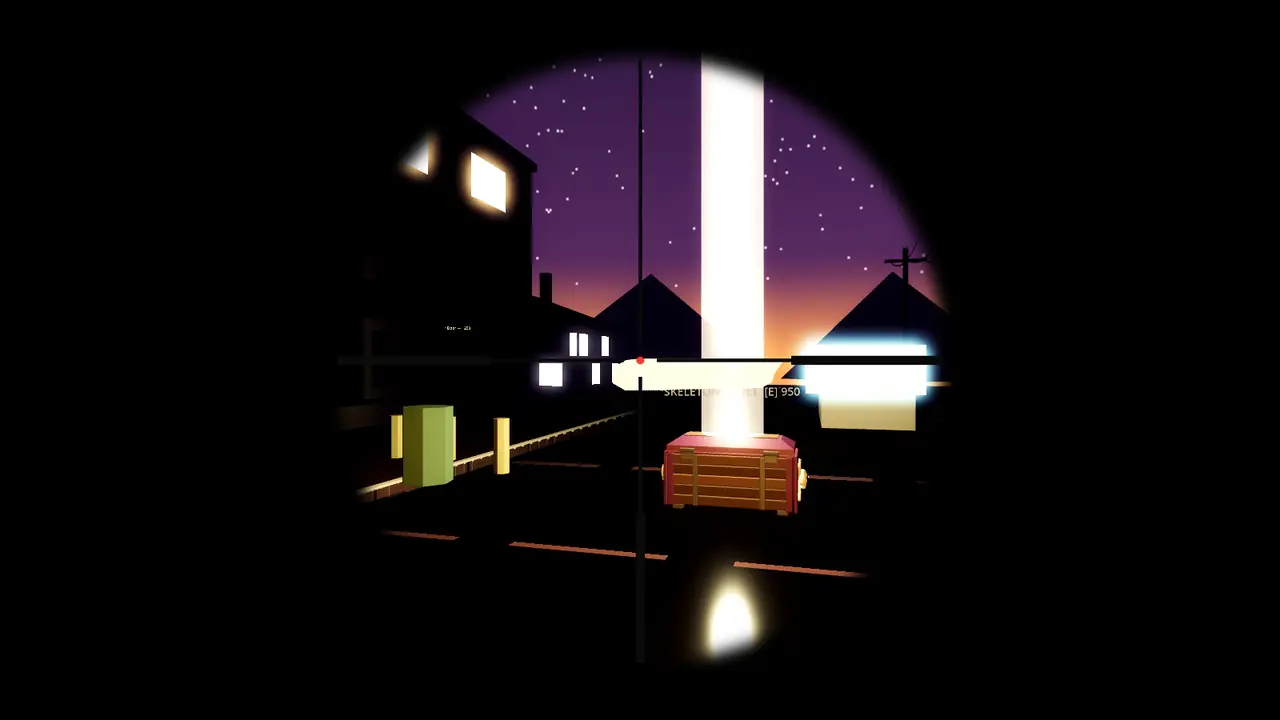
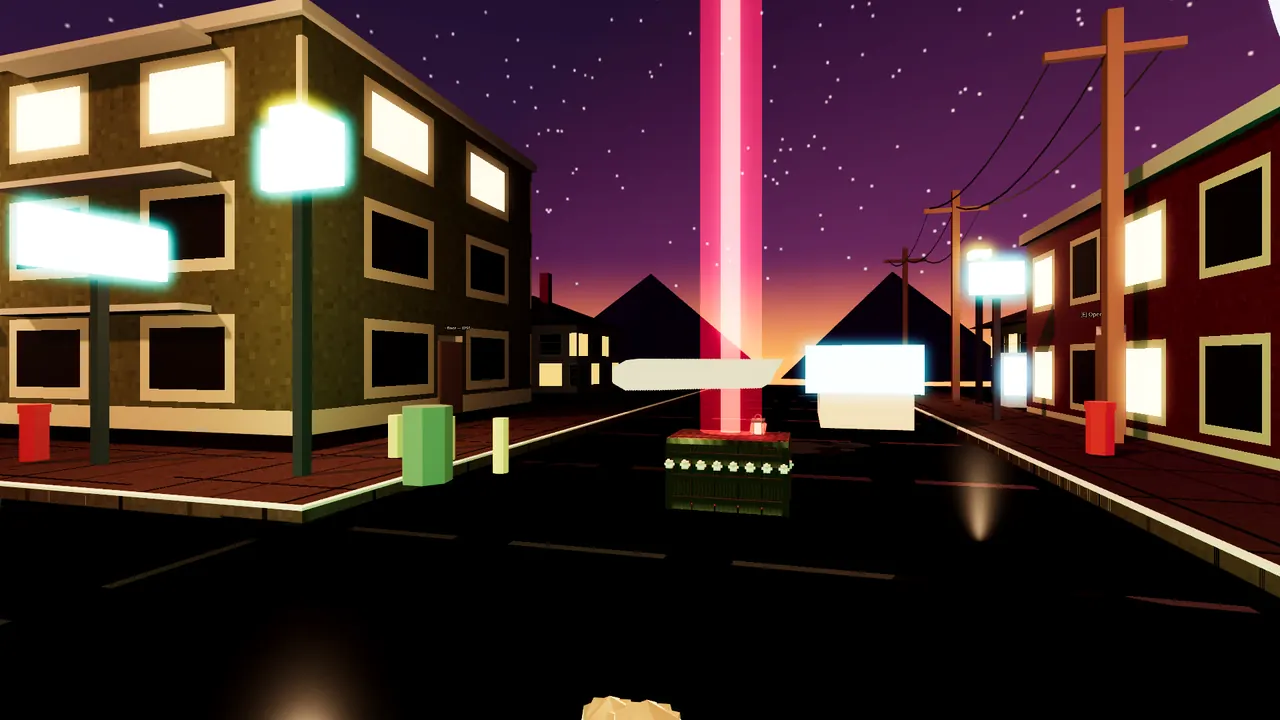
SESH: expanded sesh.html (Town/Woods/Survival galleries with current Nov 1 build shots, EE in progress, dev log), blog dev-log post, Projects card links; css v=43

diff --git a/sesh.html b/sesh.html
@@ -1,0 +1,229 @@
+<!DOCTYPE html>
+<html lang="en">
+<head>
+  <meta charset="UTF-8">
+  <meta name="viewport" content="width=device-width, initial-scale=1.0">
+  <meta name="description" content="SESH, a Godot desktop game by James Fischer: two environments, a round-based Survival mode, an Easter egg in progress and a dev log.">
+  <meta name="theme-color" content="#0b0d10">
+  <meta property="og:title" content="James Fischer | Software & IT Operations">
+  <meta property="og:description" content="Software, infrastructure, automation, and business-minded problem solving.">
+  <meta property="og:type" content="website">
+  <meta property="og:image" content="james-fischer.jpg">
+  <title>SESH | James Fischer</title>
+  <link rel="stylesheet" href="portfolio-v12.css?v=43">
+  <script defer src="script.js?v=34"></script>
+  <link rel="icon" href="favicon.svg" type="image/svg+xml">
+</head>
+<body>
+  <a class="skip-link" href="#main">Skip to content</a>
+
+  <header class="site-header" id="top">
+    <a class="brand" href="index.html" aria-label="James Fischer home">JF<span>.</span></a>
+    <button class="menu-toggle" type="button" aria-expanded="false" aria-controls="site-nav" aria-label="Menu"><span class="menu-icon" aria-hidden="true"></span></button>
+    <nav class="site-nav" id="site-nav" aria-label="Primary navigation">
+      <a href="index.html">Home</a>
+      <a href="Projects.html">Projects</a>
+      <a href="Graphic-Art.html">Graphic Art</a>
+      <a href="Experience.html">Experience</a>
+      <a href="Education.html">Education</a>
+      <a href="About.html">About</a>
+      <a href="Blog.html">Blog</a>
+      <a href="Contact.html">Contact</a>
+      <a href="James-Fischer-Resume.pdf" target="_blank" rel="noopener">Resume</a>
+    </nav>
+  </header>
+
+  <main id="main">
+    <section class="section section-intro reveal" id="overview">
+      <div class="section-number">01</div>
+      <div class="section-heading">
+        <p class="eyebrow">SESH · Game dev · 2026</p>
+        <h2>A night town,<br>a foggy woods<br>and skeletons.</h2>
+        <p class="section-lede">SESH is a Windows desktop game I am building in Godot 4. A launcher hub opens two environments, Town and Woods. Explore lets you walk each map. Survival is a round-based mode against skeletons. Maps are modeled in Blender and loaded at runtime. <a class="text-link" href="#environments">Environments</a> <a class="text-link" href="#survival">Survival</a> <a class="text-link" href="#devlog">Dev log</a> <a class="text-link" href="Blog.html#sesh-devlog-nov-1">Blog post</a></p>
+      </div>
+    </section>
+    <section class="project-grid" aria-label="SESH hero">
+      <article class="project-card reveal">
+        <div class="project-meta"><span>SESH</span><span>Town · in-game</span></div>
+        <figure class="project-shot"><img src="media/sesh/hero-ingame.webp" alt="SESH Town at sunset in-game, with the bolt-action rifle and the Skeleton Vault beam" width="1280" height="720" decoding="async"></figure>
+        <div class="project-content"><p class="project-kicker">In-game</p><h3>Survival in Town</h3><p>The lit Town map in a Survival run, with the round, points and weapon HUD.</p></div>
+      </article>
+    </section>
+    <section class="section section-intro reveal" id="environments">
+      <div class="section-number">02</div>
+      <div class="section-heading">
+        <p class="eyebrow">Environments</p>
+        <h2>Two maps,<br>built to walk through.</h2>
+        <p class="section-lede">The galleries below mix in-game captures with Blender renders of the newest map versions. Each image is labeled.</p>
+      </div>
+    </section>
+    <div id="town"></div>
+    <section class="project-grid" aria-label="Town gallery">
+      <article class="project-card reveal">
+        <div class="project-meta"><span>SESH</span><span>Town · Blender render, Nov 1</span></div>
+        <figure class="project-shot"><img src="media/sesh/town-window.webp" alt="Lit storefront windows in SESH Town at night, Blender render" width="1280" height="720" loading="lazy" decoding="async"></figure>
+        <div class="project-content"><p class="project-kicker">Town · Blender render</p><h3>Storefronts</h3><p>Lit shop windows with skeleton figures inside, from the current Town build.</p></div>
+      </article>
+      <article class="project-card reveal">
+        <div class="project-meta"><span>SESH</span><span>Town · Blender render, Nov 1</span></div>
+        <figure class="project-shot"><img src="media/sesh/town-bar.webp" alt="Neon bar interior in SESH Town with skeletons at the counter, Blender render" width="1280" height="720" loading="lazy" decoding="async"></figure>
+        <div class="project-content"><p class="project-kicker">Town · Blender render</p><h3>Bar interior</h3><p>The bar, one of the buildings you can walk into.</p></div>
+      </article>
+      <article class="project-card reveal">
+        <div class="project-meta"><span>SESH</span><span>Town · Blender render, Nov 1</span></div>
+        <figure class="project-shot"><img src="media/sesh/town-office.webp" alt="Green-lit office interior in SESH Town, Blender render" width="1280" height="720" loading="lazy" decoding="async"></figure>
+        <div class="project-content"><p class="project-kicker">Town · Blender render</p><h3>Office</h3><p>The office interior, lit in green.</p></div>
+      </article>
+      <article class="project-card reveal">
+        <div class="project-meta"><span>SESH</span><span>Town · Blender render, Nov 1</span></div>
+        <figure class="project-shot"><img src="media/sesh/town-house.webp" alt="Warm-lit house interior in SESH Town, Blender render" width="1280" height="720" loading="lazy" decoding="async"></figure>
+        <div class="project-content"><p class="project-kicker">Town · Blender render</p><h3>House</h3><p>A house interior on the Town block.</p></div>
+      </article>
+    </section>
+    <div id="woods"></div>
+    <section class="project-grid" aria-label="Woods gallery">
+      <article class="project-card reveal">
+        <div class="project-meta"><span>SESH</span><span>Woods · v031 render, Nov 1</span></div>
+        <figure class="project-shot"><img src="media/sesh/woods-clearing.webp" alt="Foggy clearing in SESH Woods, Blender render" width="640" height="360" loading="lazy" decoding="async"></figure>
+        <div class="project-content"><p class="project-kicker">Woods · Blender render</p><h3>Clearing</h3><p>Cold fog over the pines, inspired by Silent Hill 2.</p></div>
+      </article>
+      <article class="project-card reveal">
+        <div class="project-meta"><span>SESH</span><span>Woods · v031 render, Nov 1</span></div>
+        <figure class="project-shot"><img src="media/sesh/woods-trail.webp" alt="Foggy trail in SESH Woods, Blender render" width="640" height="360" loading="lazy" decoding="async"></figure>
+        <div class="project-content"><p class="project-kicker">Woods · Blender render</p><h3>Trail</h3><p>The trail into the trees.</p></div>
+      </article>
+      <article class="project-card reveal">
+        <div class="project-meta"><span>SESH</span><span>Woods · v031 render, Nov 1</span></div>
+        <figure class="project-shot"><img src="media/sesh/woods-deep.webp" alt="Deep fog in SESH Woods, Blender render" width="640" height="360" loading="lazy" decoding="async"></figure>
+        <div class="project-content"><p class="project-kicker">Woods · Blender render</p><h3>Deep woods</h3><p>Further in, where the fog closes up.</p></div>
+      </article>
+      <article class="project-card reveal">
+        <div class="project-meta"><span>SESH</span><span>Woods · in-game, Nov 1</span></div>
+        <figure class="project-shot"><img src="media/sesh/woods-thirdperson.webp" alt="Third-person view of the skeleton player by a skull sign in the foggy SESH Woods, in-game" width="1280" height="720" loading="lazy" decoding="async"></figure>
+        <div class="project-content"><p class="project-kicker">Woods · In-game</p><h3>Third person in the Woods</h3><p>The Woods in-game, with the third-person camera on the skeleton player.</p></div>
+      </article>
+    </section>
+    <section class="section section-intro reveal" id="survival">
+      <div class="section-number">03</div>
+      <div class="section-heading">
+        <p class="eyebrow">Survival</p>
+        <h2>Round-based,<br>against skeletons.</h2>
+        <p class="section-lede">Playable on both maps. All shots are from the current build, in-game.</p>
+      </div>
+    </section>
+    <section class="project-grid" aria-label="Survival features">
+      <article class="project-card reveal">
+        <div class="project-meta"><span>SESH</span><span>In-game, Nov 1</span></div>
+        <figure class="project-shot"><img src="media/sesh/vault-open.webp" alt="Skeleton Vault opening with a red beam on a Town street at sunset, in-game" width="1280" height="720" loading="lazy" decoding="async"></figure>
+        <div class="project-content"><p class="project-kicker">Feature</p><h3>Skeleton Vault</h3><p>Spend points for a random weapon. The Vault spins, then relocates with a beacon so you can find it again.</p></div>
+      </article>
+      <article class="project-card reveal">
+        <div class="project-meta"><span>SESH</span><span>In-game, Nov 1</span></div>
+        <figure class="project-shot"><img src="media/sesh/emerge-spawns.webp" alt="Skeleton spawn point on a Town street at sunset, in-game" width="1280" height="720" loading="lazy" decoding="async"></figure>
+        <div class="project-content"><p class="project-kicker">Feature</p><h3>Emerge spawns</h3><p>Skeletons climb out of manholes, sewer grates and ground cracks in Town, and coffins, dirt mounds and storm drains in the Woods.</p></div>
+      </article>
+      <article class="project-card reveal">
+        <div class="project-meta"><span>SESH</span><span>In-game, Nov 1</span></div>
+        <figure class="project-shot"><img src="media/sesh/perk-npc.webp" alt="Perk stand by a Town storefront, in-game" width="1280" height="720" loading="lazy" decoding="async"></figure>
+        <div class="project-content"><p class="project-kicker">Feature</p><h3>Perk stands</h3><p>Perks are sold by skeleton NPCs, with an icon row in the HUD.</p></div>
+      </article>
+      <article class="project-card reveal">
+        <div class="project-meta"><span>SESH</span><span>In-game, Nov 1</span></div>
+        <figure class="project-shot"><img src="media/sesh/ads-scope.webp" alt="Bolt-action rifle on a Town street at sunset with the Vault beam behind, in-game" width="1280" height="720" loading="lazy" decoding="async"></figure>
+        <div class="project-content"><p class="project-kicker">Feature</p><h3>Bolt-action rifle</h3><p>Guns aim down sights, with a full scope view on the bolt-action rifle.</p></div>
+      </article>
+    </section>
+    <section class="section section-intro reveal" id="easter-egg">
+      <div class="section-number">04</div>
+      <div class="section-heading">
+        <p class="eyebrow">In progress</p>
+        <h2>Easter egg,<br>designed, not built.</h2>
+      </div>
+    </section>
+    <section class="project-grid" aria-label="Easter egg in progress">
+      <article class="project-card reveal">
+        <div class="project-meta"><span>SESH</span><span>In progress</span></div>
+        
+        <div class="project-content"><h3>Town Easter egg</h3><p>A witch in the plaza gives clues. A ghost at the bar gives you a potion, the witch has you build her ritual items, and her ritual summons a purple skeleton with his car, which flies you out of Town into a new Woods map.</p></div>
+      </article>
+      <article class="project-card reveal">
+        <div class="project-meta"><span>SESH</span><span>In progress</span></div>
+        
+        <div class="project-content"><h3>Post-Easter-egg Woods</h3><p>Stronger perks, including Second Wind and Bone Cache moving here, a Pack-a-Punch machine called the Soup Forge, and a mystery box at the entrance that never moves.</p></div>
+      </article>
+      <article class="project-card reveal">
+        <div class="project-meta"><span>SESH</span><span>In progress</span></div>
+        
+        <div class="project-content"><h3>Town changes</h3><p>Town drops to three perks: Tough Brew, Quick Brew and Rapid Brew, which will only raise fire rate. Starting movement gets much slower and more realistic, ready for playtesting.</p></div>
+      </article>
+    </section>
+    <section class="section section-intro reveal" id="devlog">
+      <div class="section-number">05</div>
+      <div class="section-heading">
+        <p class="eyebrow">Dev log</p>
+        <h2>November 1,<br>2026.</h2>
+        <p class="section-lede">What I worked on today. <a class="text-link" href="Blog.html#sesh-devlog-nov-1">Read the blog post</a></p>
+      </div>
+    </section>
+    <section class="project-grid" aria-label="Dev log, November 1">
+      <article class="project-card reveal">
+        <div class="project-meta"><span>SESH</span><span>Nov 1 · Early morning</span></div>
+        
+        <div class="project-content"><h3>Town and the launcher</h3><p>Got Town running as a playable map. I started with a browser build, then switched to a native Godot 4 desktop player that loads the Blender export at runtime with collision, fog and glow. Added a launcher hub that lists each environment and its versions.</p></div>
+      </article>
+      <article class="project-card reveal">
+        <div class="project-meta"><span>SESH</span><span>Nov 1 · Early morning</span></div>
+        
+        <div class="project-content"><h3>The Woods</h3><p>Added a dark, foggy Woods inspired by Silent Hill 2, with a post shader for grain, vignette and scanlines and a flashlight on F. Grass, foliage and fog no longer block the player.</p></div>
+      </article>
+      <article class="project-card reveal">
+        <div class="project-meta"><span>SESH</span><span>Nov 1 · Morning</span></div>
+        
+        <div class="project-content"><h3>Survival mode</h3><p>Built Survival on both maps: rounds, points, a mystery box, guns, perks, drops and game over. Reworked how skeletons chase you so they stop getting stuck, and added procedural sound effects and pause.</p></div>
+      </article>
+      <article class="project-card reveal">
+        <div class="project-meta"><span>SESH</span><span>Nov 1 · Afternoon</span></div>
+        
+        <div class="project-content"><h3>Weapons</h3><p>Gave each weapon its own reload animation, added melee weapons, aim down sights and a scope on the bolt-action rifle, and a third-person camera.</p></div>
+      </article>
+      <article class="project-card reveal">
+        <div class="project-meta"><span>SESH</span><span>Nov 1 · Afternoon</span></div>
+        
+        <div class="project-content"><h3>Perks, houses and spawns</h3><p>Added perk stands run by skeleton NPCs, double jump and a drop timer. Made the houses enterable with doors that open and close. Skeletons now climb out of manholes, grates, coffins and the ground.</p></div>
+      </article>
+      <article class="project-card reveal">
+        <div class="project-meta"><span>SESH</span><span>Nov 1 · Evening</span></div>
+        
+        <div class="project-content"><h3>Polish pass</h3><p>Lit Town better and added lanterns, a signpost and mist to the Woods. Grounded the Woods Skeleton Vault, added power-up drops and finished the Vault's spin.</p></div>
+      </article>
+      <article class="project-card reveal">
+        <div class="project-meta"><span>SESH</span><span>Nov 1 · Evening</span></div>
+        
+        <div class="project-content"><h3>Design, in progress</h3><p>Wrote up the Town Easter egg, the post-Easter-egg Woods perks and the Soup Forge, a three-perk Town and slower starting movement. None of it is built yet.</p></div>
+      </article>
+    </section>
+    <section class="section section-intro reveal" id="stack">
+      <div class="section-number">06</div>
+      <div class="section-heading">
+        <p class="eyebrow">Tech stack</p>
+        <h2>How it is<br>built.</h2>
+      </div>
+    </section>
+    <section class="project-grid" aria-label="Tech stack">
+      <article class="project-card reveal"><div class="project-content"><h3>Tools</h3><ul class="tags"><li>Godot 4</li><li>GDScript</li><li>Blender</li><li>GLB runtime loading</li><li>Custom post shaders</li><li>Windows desktop</li></ul></div></article>
+    </section>
+    </section>
+  </main>
+
+  <footer>
+    <p>Designed & built by James Fischer.</p>
+    <nav class="footer-links" aria-label="Profiles">
+      <a href="https://github.com/JamesLFischer" target="_blank" rel="noopener">GitHub</a>
+      <a href="https://www.linkedin.com/in/jamesloughranfischer/" target="_blank" rel="noopener noreferrer">LinkedIn</a>
+      <a href="James-Fischer-Resume.pdf" target="_blank" rel="noopener">Resume</a>
+      <a href="https://x.com/JamesFischerOps" target="_blank" rel="noopener noreferrer">X</a>
+    </nav>
+    <p>Seattle, WA · <span id="year">2026</span></p>
+  </footer>
+</body>
+</html>

diff --git a/Blog.html b/Blog.html
@@ -10,7 +10,7 @@
   <meta property="og:type" content="website">
   <meta property="og:image" content="james-fischer.jpg">
   <title>Blog | James Fischer</title>
-  <link rel="stylesheet" href="portfolio-v12.css?v=41">
+  <link rel="stylesheet" href="portfolio-v12.css?v=43">
   <script defer src="script.js?v=34"></script>
   <link rel="icon" href="favicon.svg" type="image/svg+xml">
 </head>
@@ -47,8 +47,21 @@
             2. End the post with the .project-backlink block below, pointing to Projects.html#<project-id>.
             3. Add the post to that card's "Related posts" list on Projects.html.
         -->
-        <article id="band-for-band-announce" data-project="band-for-band">
+        <article id="sesh-devlog-nov-1" data-project="sesh-game">
           <span class="cap-index">01</span>
+          <h3>Dev log: building SESH in a day</h3>
+          <p><em>November 1, 2026</em></p>
+          <img src="media/sesh/hero-ingame.webp" alt="SESH Town at sunset in-game, with the bolt-action rifle and the Skeleton Vault beam" width="1280" height="720" loading="lazy" decoding="async" style="width:100%;height:auto;border-radius:8px">
+          <p>SESH is a Windows desktop game I'm making in Godot 4. Today I got two maps playable, Town and a foggy Silent Hill-style Woods, both modeled in Blender and loaded at runtime from a launcher hub.</p>
+          <p>Most of the day went into Survival, a round-based mode against skeletons: points, a Skeleton Vault for random weapons, perk stands run by skeleton NPCs, drops, per-weapon reloads, melee, aim down sights and a third-person camera. Skeletons climb out of manholes, coffins and the ground, and the houses now have doors you can close.</p>
+          <p>Next up is an Easter egg in Town, a witch, a ghost and a ritual that ends with a car flying you into a new Woods map. It's designed but not built yet.</p>
+          <div class="project-backlink">
+            <span>Part of the <strong>SESH</strong> project</span>
+            <a class="backlink-button" href="sesh.html">View the project →</a>
+          </div>
+        </article>
+        <article id="band-for-band-announce" data-project="band-for-band">
+          <span class="cap-index">02</span>
           <h3>Coming soon: Band for Band</h3>
           <p><em>October 2026</em></p>
           <p>Band for Band is a Steam game in progress. The hook is that players link their bank account. It's in early development and not released, with 3D character work underway and voice prototypes in ElevenLabs. More to share later.</p>

diff --git a/Projects.html b/Projects.html
@@ -10,7 +10,7 @@
   <meta property="og:type" content="website">
   <meta property="og:image" content="james-fischer.jpg">
   <title>Projects | James Fischer</title>
-  <link rel="stylesheet" href="portfolio-v12.css?v=41">
+  <link rel="stylesheet" href="portfolio-v12.css?v=43">
   <script defer src="script.js?v=34"></script>
   <link rel="icon" href="favicon.svg" type="image/svg+xml">
 </head>
@@ -99,13 +99,22 @@ status: reasoning under uncertainty_</code></pre>
           <span>2026</span>
         </div>
         <figure class="project-shot">
-          <img src="media/sesh/survival-rounds.webp" alt="SESH Survival mode in the Town map, round 2" width="1280" height="720" loading="lazy" decoding="async">
+          <img src="media/sesh/hero-ingame.webp" alt="SESH Town at sunset in-game, with the bolt-action rifle and the Skeleton Vault beam" width="1280" height="720" loading="lazy" decoding="async">
         </figure>
         <div class="project-content">
           <p class="project-kicker">Godot 4 · GDScript · Blender</p>
           <h3>SESH</h3>
           <p>A Windows desktop game built in Godot. A launcher hub opens two maps, Town and Woods, each with two modes. Explore lets you walk the map. Survival is a round-based mode against skeletons, with points, a mystery box, a Skeleton Vault, perk stands and a set of guns and melee weapons. Maps are modeled in Blender and loaded at runtime.</p>
           <ul class="tags"><li>Godot 4</li><li>GDScript</li><li>Blender</li><li>Game design</li></ul>
+          <a class="text-link" href="sesh.html">View the full project</a>
+          <a class="text-link" href="sesh.html#environments">See the environments</a>
+          <a class="text-link" href="sesh.html#devlog">Read the dev log</a>
+          <div class="related-posts">
+            <p class="project-kicker">Related posts</p>
+            <ul>
+              <li><a class="text-link" href="Blog.html#sesh-devlog-nov-1">Dev log: building SESH in a day →</a></li>
+            </ul>
+          </div>
         </div>
       </article>
       <article class="project-card reveal">

diff --git a/portfolio-v12.css b/portfolio-v12.css
@@ -1121,3 +1121,5 @@ html { scroll-padding-top: 88px; }
 .video-toggle:hover, .video-toggle:focus-visible { opacity: 1; }
 /* Portrait (9:16) phone clips: full frame, capped height so the card does not tower over its row. */
 .venture-media.is-portrait:has(.media-stage-art video) { width: min(100%, 315px); margin-inline: auto; }
+.section-lede{max-width:46rem;margin-top:1.25rem;line-height:1.6;opacity:.85}
+.section-lede .text-link{display:inline;margin-right:.75rem}

diff --git a/index.html b/index.html
@@ -10,7 +10,7 @@
   <meta property="og:type" content="website">
   <meta property="og:image" content="james-fischer.jpg">
   <title>James Fischer | Software & IT Operations</title>
-  <link rel="stylesheet" href="portfolio-v12.css?v=41">
+  <link rel="stylesheet" href="portfolio-v12.css?v=43">
   <script defer src="script.js?v=34"></script>
   <link rel="icon" href="favicon.svg" type="image/svg+xml">
 </head>

diff --git a/Graphic-Art.html b/Graphic-Art.html
@@ -10,7 +10,7 @@
   <meta property="og:type" content="website">
   <meta property="og:image" content="james-fischer.jpg">
   <title>Graphic Art | James Fischer</title>
-  <link rel="stylesheet" href="portfolio-v12.css?v=42">
+  <link rel="stylesheet" href="portfolio-v12.css?v=43">
   <script defer src="script.js?v=34"></script>
   <link rel="icon" href="favicon.svg" type="image/svg+xml">
 </head>

diff --git a/Experience.html b/Experience.html
@@ -10,7 +10,7 @@
   <meta property="og:type" content="website">
   <meta property="og:image" content="james-fischer.jpg">
   <title>Experience | James Fischer</title>
-  <link rel="stylesheet" href="portfolio-v12.css?v=41">
+  <link rel="stylesheet" href="portfolio-v12.css?v=43">
   <script defer src="script.js?v=34"></script>
   <link rel="icon" href="favicon.svg" type="image/svg+xml">
 </head>

diff --git a/Education.html b/Education.html
@@ -10,7 +10,7 @@
   <meta property="og:type" content="website">
   <meta property="og:image" content="james-fischer.jpg">
   <title>Education | James Fischer</title>
-  <link rel="stylesheet" href="portfolio-v12.css?v=41">
+  <link rel="stylesheet" href="portfolio-v12.css?v=43">
   <script defer src="script.js?v=34"></script>
   <link rel="icon" href="favicon.svg" type="image/svg+xml">
 </head>

diff --git a/Contact.html b/Contact.html
@@ -10,7 +10,7 @@
   <meta property="og:type" content="website">
   <meta property="og:image" content="james-fischer.jpg">
   <title>Contact | James Fischer</title>
-  <link rel="stylesheet" href="portfolio-v12.css?v=41">
+  <link rel="stylesheet" href="portfolio-v12.css?v=43">
   <script defer src="script.js?v=34"></script>
   <link rel="icon" href="favicon.svg" type="image/svg+xml">
 </head>

diff --git a/About.html b/About.html
@@ -10,7 +10,7 @@
   <meta property="og:type" content="website">
   <meta property="og:image" content="james-fischer.jpg">
   <title>About | James Fischer</title>
-  <link rel="stylesheet" href="portfolio-v12.css?v=41">
+  <link rel="stylesheet" href="portfolio-v12.css?v=43">
   <script defer src="script.js?v=34"></script>
   <link rel="icon" href="favicon.svg" type="image/svg+xml">
 </head>
